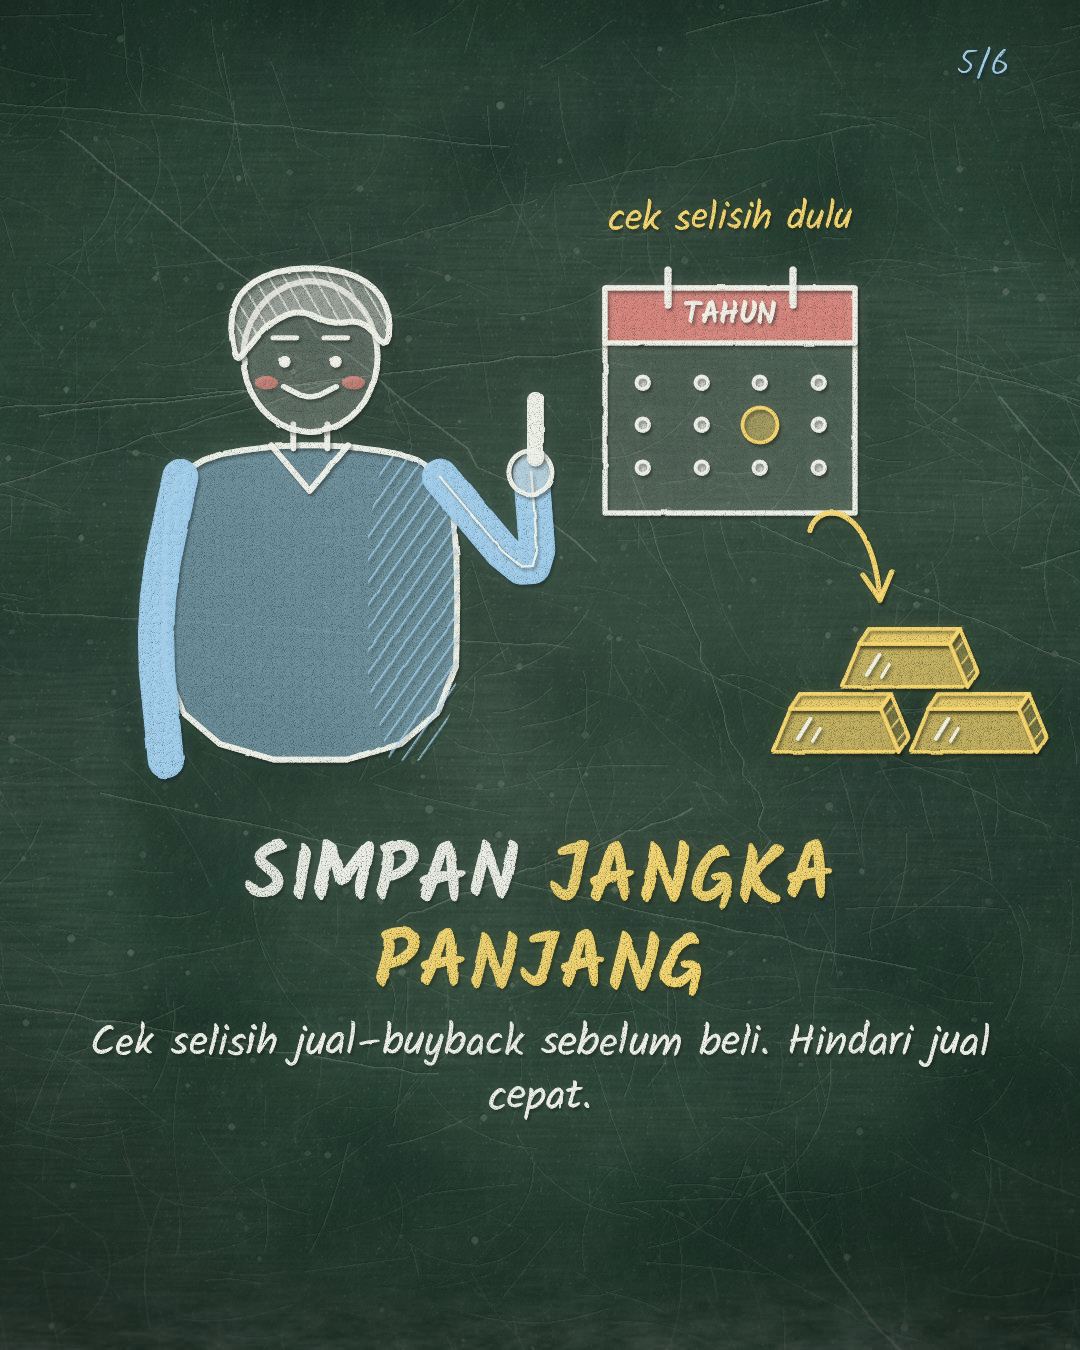
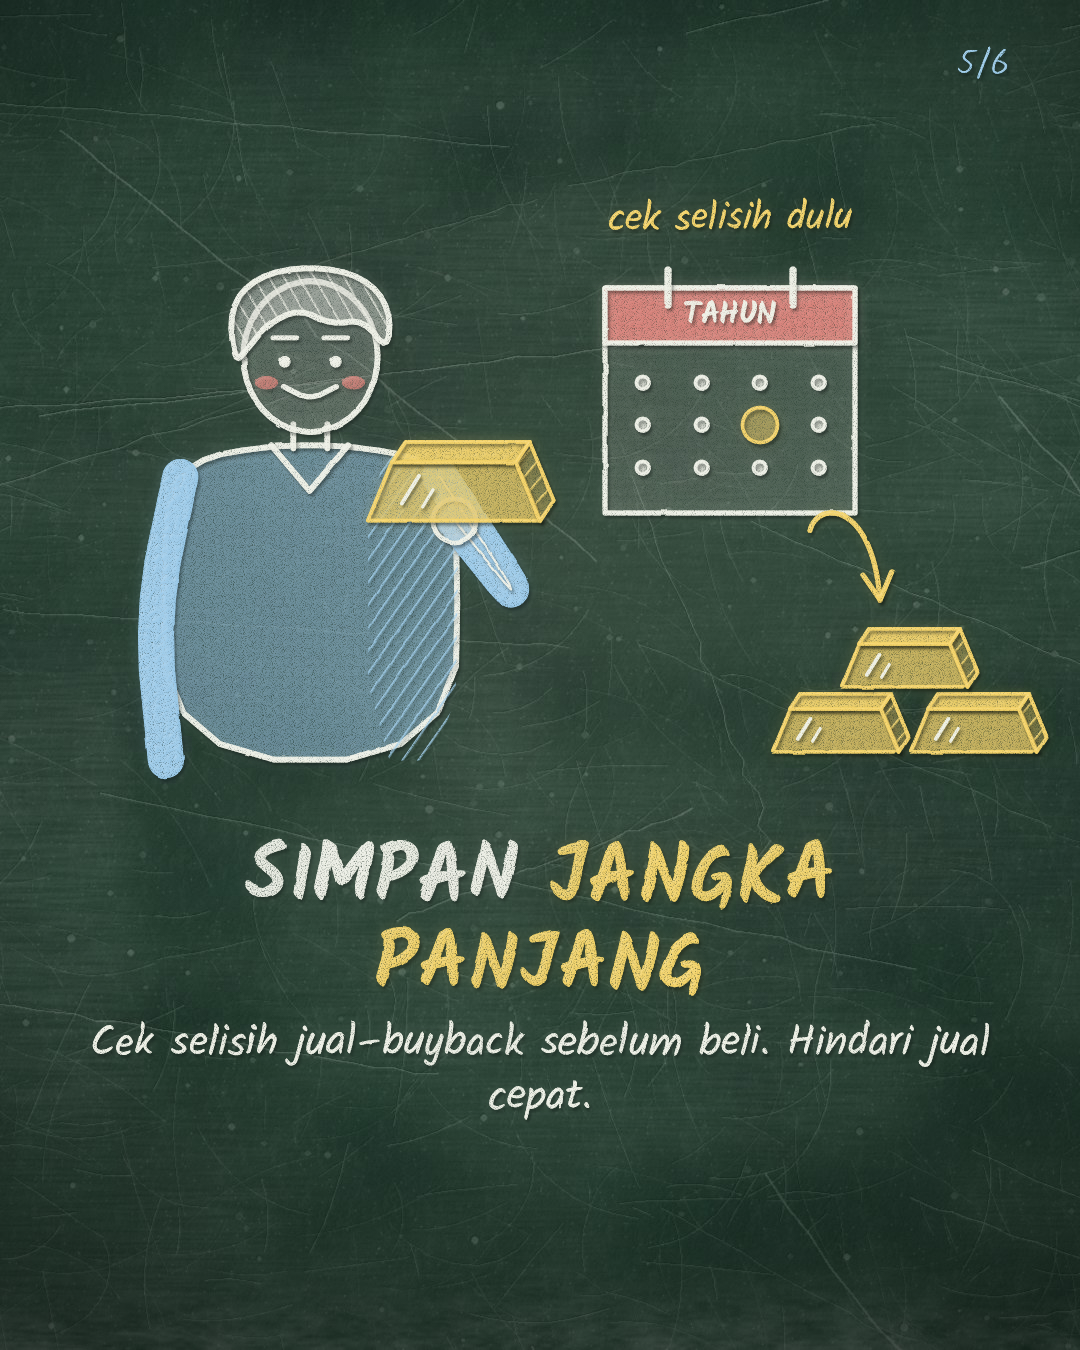
Ilustrasi: pose orang memegang batang emas; dipakai di slide solusi contoh carousel emas
Claude-Session: https://claude.ai/code/session_01KMbroAGncEDBsqPKKLLpNR

Changed region(s): [[0.3361, 0.28, 0.5194, 0.4667]]

diff --git a/src/papan/ilustrasi/orang.tsx b/src/papan/ilustrasi/orang.tsx
@@ -3,9 +3,10 @@
 import React from "react";
 import { Tulis } from "../Komponen";
 import { k } from "../tema";
+import { BatangEmas } from "./benda";
 import { Bentuk, Bidang, Gr, SUDAH, elips, halus, persegi, persegiBulat, skala } from "./dasar";
 
-export type Pose = "netral" | "hp" | "struk" | "mikir" | "kaget" | "jempol" | "tunjuk";
+export type Pose = "netral" | "hp" | "struk" | "mikir" | "kaget" | "jempol" | "tunjuk" | "emas";
 export type Ekspresi = "senyum" | "kaget" | "mikir" | "datar" | "cemas";
 
 type P = [number, number];
@@ -52,6 +53,7 @@ export const Orang: React.FC<{ cx: number; cy: number; s: number; pose?: Pose; e
   if (pose === "mikir") aktif = [bahuK, [0.3, 0.68], [0.06, 0.31]];
   if (pose === "jempol") aktif = [bahuK, [0.48, 0.66], [0.46, 0.4]];
   if (pose === "tunjuk") aktif = [bahuK, [0.47, 0.52], [0.64, 0.43]];
+  if (pose === "emas") aktif = [bahuK, [0.46, 0.7], [0.3, 0.5]];
   if (pose === "kaget") {
     aktif = [bahuK, [0.47, 0.42], [0.36, 0.19]];
     pasif = [bahuKi, [-0.47, 0.42], [-0.36, 0.19]];
@@ -116,6 +118,7 @@ export const Orang: React.FC<{ cx: number; cy: number; s: number; pose?: Pose; e
           {teks ? <Tulis x={cx + 0.46 * m * s} y={top + 0.04 * s} teks={teks} ukuran={s * 0.06} gaya="tebal" warna={k.kuning} mulai={SUDAH} rata="center" /> : null}
         </>
       ) : null}
+      {pose === "emas" ? <BatangEmas cx={cx + 0.3 * m * s} cy={top + 0.43 * s} s={0.36 * s} /> : null}
       {pose === "jempol" ? <Gr pts={S([[0.47, 0.37], [0.47, 0.25]])} warna={k.putih} tebal={s * 0.035} /> : null}
       {pose === "tunjuk" ? <Gr pts={S([[0.68, 0.425], [0.76, 0.41]])} warna={k.putih} tebal={s * 0.025} /> : null}
       {pose === "mikir" ? (

diff --git a/src/papan/demo/GaleriIlustrasi.tsx b/src/papan/demo/GaleriIlustrasi.tsx
@@ -5,8 +5,8 @@ import { FilterKapur, Tulis } from "../Komponen";
 import { BENDA, Orang, Pose } from "../ilustrasi";
 import { k } from "../tema";
 
-const POSE: Pose[] = ["netral", "hp", "struk", "mikir", "kaget", "jempol", "tunjuk"];
-const EKSPRESI = { netral: "senyum", hp: "senyum", struk: "cemas", mikir: "mikir", kaget: "kaget", jempol: "senyum", tunjuk: "datar" } as const;
+const POSE: Pose[] = ["netral", "hp", "struk", "mikir", "kaget", "jempol", "tunjuk", "emas"];
+const EKSPRESI = { netral: "senyum", hp: "senyum", struk: "cemas", mikir: "mikir", kaget: "kaget", jempol: "senyum", tunjuk: "datar", emas: "senyum" } as const;
 const BAJU = [k.biru, k.merah, k.kuning, k.hijauTerang];
 const TEKS: Record<string, string> = { label: "Rp1,5 jt", kalender: "NOV", kalkulator: "10%", gelembung: "__ %", hp: "Rp1,35 jt" };
 

diff --git a/src/papan/ilustrasi/benda.tsx b/src/papan/ilustrasi/benda.tsx
@@ -10,7 +10,7 @@ type P = [number, number];
 
 const tebalDari = (s: number) => Math.max(4, s * 0.02);
 
-const BatangEmas: React.FC<{ cx: number; cy: number; s: number }> = ({ cx, cy, s }) => {
+export const BatangEmas: React.FC<{ cx: number; cy: number; s: number }> = ({ cx, cy, s }) => {
   const S = skala(cx, cy, s);
   const t = tebalDari(s) * 0.9;
   return (

diff --git a/docs/carousel-papan.md b/docs/carousel-papan.md
@@ -53,7 +53,7 @@ Research mengisi `judul`, `isi`, `visual`, dan `sumber`. Director menerjemahkan 
 
 | Jenis | Opsi |
 |---|---|
-| `orang` (setengah badan) | `pose`: `netral`, `hp`, `struk`, `mikir`, `kaget`, `jempol`, `tunjuk` · `ekspresi`: `senyum`, `kaget`, `mikir`, `datar`, `cemas` · `baju`: `biru`/`merah`/`kuning`/`hijau` · `cermin` · `teks` (di struk/gelembung pikiran) |
+| `orang` (setengah badan) | `pose`: `netral`, `hp`, `struk`, `mikir`, `kaget`, `jempol`, `tunjuk`, `emas` (memegang batang emas) · `ekspresi`: `senyum`, `kaget`, `mikir`, `datar`, `cemas` · `baju`: `biru`/`merah`/`kuning`/`hijau` · `cermin` · `teks` (di struk/gelembung pikiran) |
 | benda | `emas`, `emasTumpuk`, `koin`, `uang`, `hp`, `kartu`, `tas`, `kalender`, `bank`, `timbangan` (`miring`), `label` (label harga: `teks`, `warna`, `miring`), `kalkulator`, `meja`, `gelembung` · sebagian menerima `teks` |
 | `gambar` (raster) | `src` (path di `public/`), `w`, `h`. Dipakai untuk mengganti ilustrasi kode dengan gambar kapur AI kelak, tanpa mengubah tata letak. |
 
